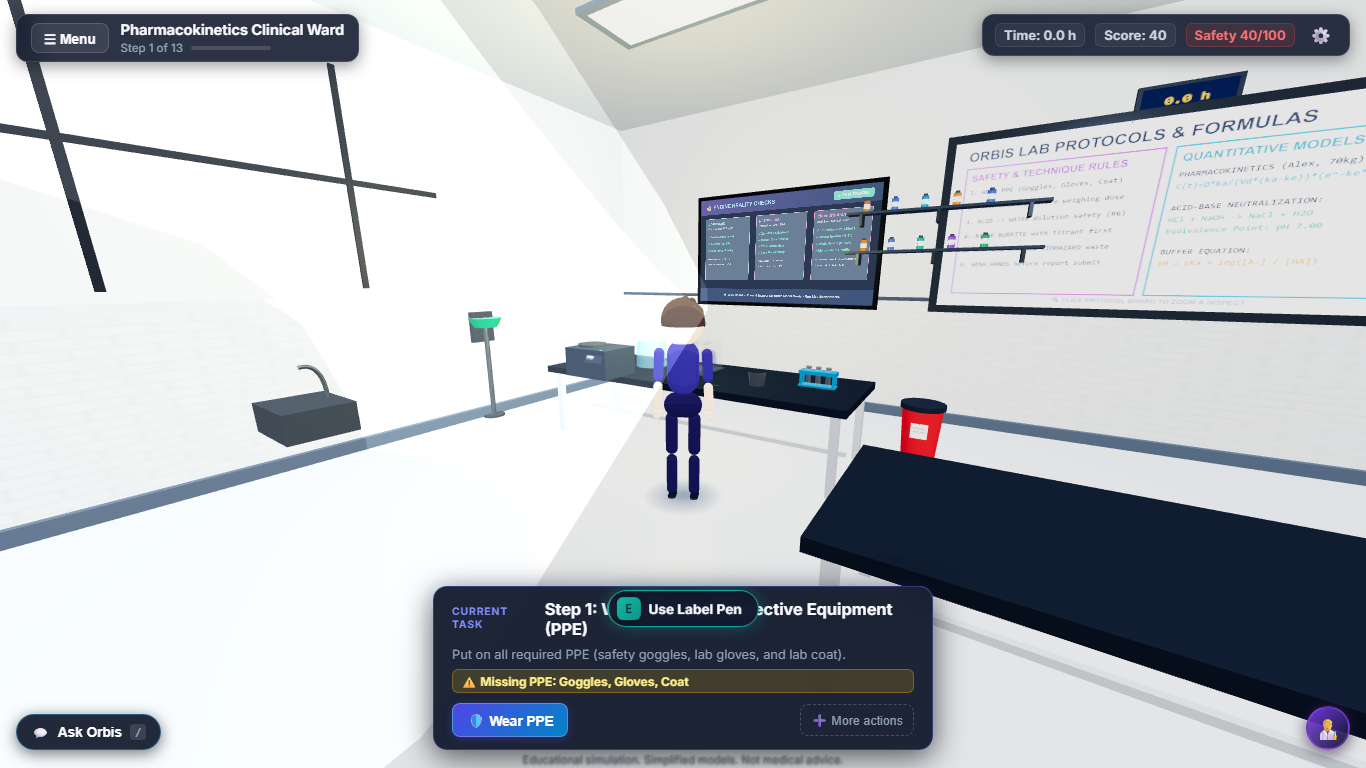
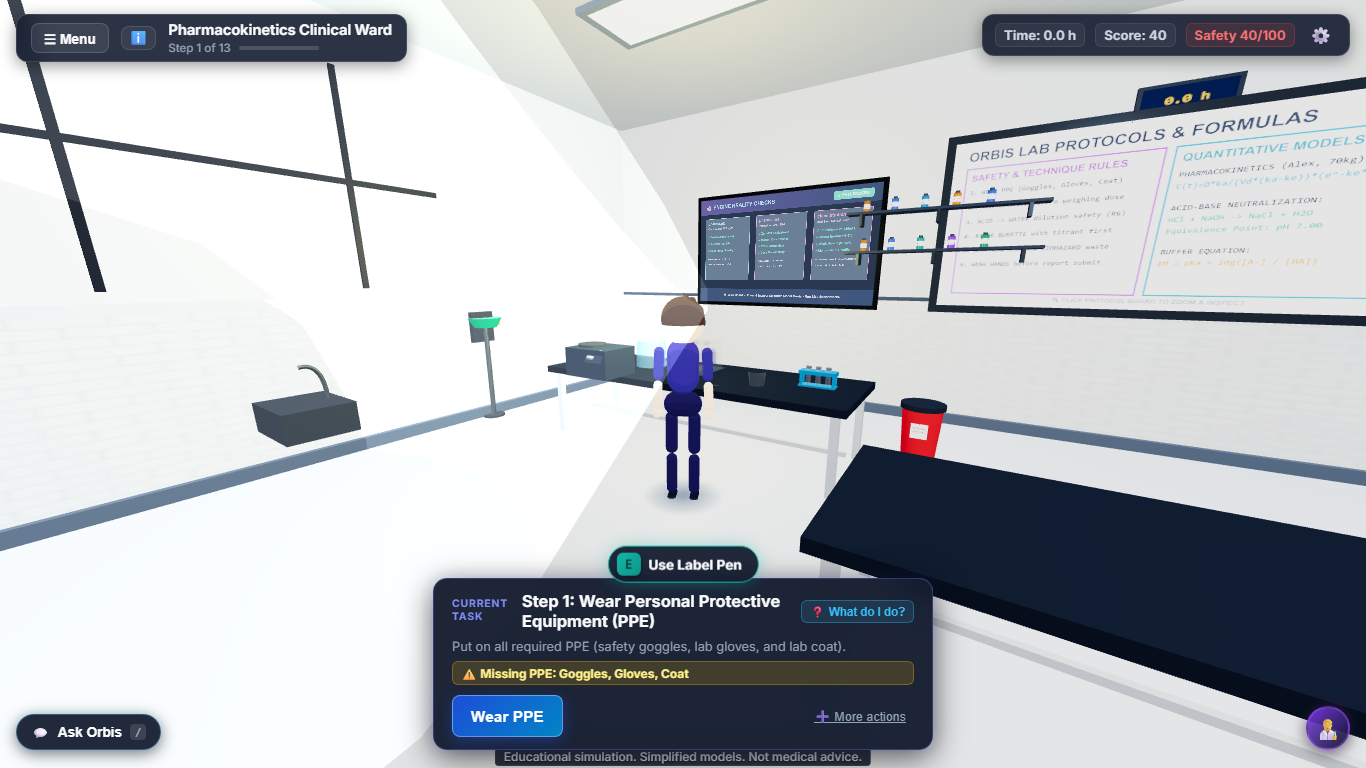
test(proof): capture real HUD screenshots, sidecars, and mobile/space camera polish (U7)

Changed region(s): [[0.3075, 0.6875, 0.6764, 1.0], [0.0922, 0.0, 0.3075, 0.0938]]

diff --git a/frontend/lab.css b/frontend/lab.css
@@ -5120,32 +5120,69 @@ body.has-offline-banner .hud-top-right {
 
 @media (max-width: 600px) {
   .hud-top-left {
-    top: 8px;
-    left: 8px;
-    padding: 4px 10px;
-    gap: 8px;
+    top: 6px;
+    left: 6px;
+    padding: 4px 8px;
+    gap: 5px;
+    max-width: calc(52vw - 8px);
+  }
+  .btn-hud-menu {
+    padding: 4px 7px;
+    font-size: 0.72rem;
+  }
+  .btn-hud-info {
+    padding: 3px 5px;
+    font-size: 0.75rem;
   }
   .hud-exp-name {
-    font-size: 0.82rem;
+    font-size: 0.75rem;
+    white-space: nowrap;
+    overflow: hidden;
+    text-overflow: ellipsis;
   }
   .hud-top-right {
-    top: 8px;
-    right: 8px;
-    padding: 4px 8px;
-    gap: 6px;
+    top: 6px;
+    right: 6px;
+    padding: 4px 6px;
+    gap: 4px;
+    max-width: calc(45vw - 8px);
+  }
+  .hud-metrics-row {
+    flex-wrap: wrap;
+    gap: 3px;
+    justify-content: flex-end;
   }
   .hud-metric-chip {
-    font-size: 0.72rem;
-    padding: 2px 5px;
+    font-size: 0.66rem;
+    padding: 1px 4px;
   }
   .hud-current-task-card {
-    bottom: 68px;
-    width: calc(100vw - 16px);
-    padding: 10px 12px;
+    bottom: 58px;
+    width: calc(100vw - 12px);
+    padding: 8px 10px;
+    gap: 4px;
     border-radius: 10px;
   }
+  .task-card-title {
+    font-size: 0.86rem;
+  }
+  .task-card-hint {
+    font-size: 0.72rem;
+    line-height: 1.25;
+  }
+  .task-btn-primary {
+    min-height: 36px;
+    padding: 6px 12px;
+    font-size: 0.84rem;
+  }
   .hud-proximity-prompt {
-    bottom: 195px;
+    bottom: 222px;
+  }
+  .touch-joystick-zone {
+    bottom: 215px;
+    left: 12px;
+    width: 84px;
+    height: 84px;
   }
   .hud-ask-orbis-trigger {
     bottom: 12px;

diff --git a/frontend/lab/character/controller.js b/frontend/lab/character/controller.js
@@ -122,6 +122,10 @@ export class CharacterController {
       // Spawn standing at the balance station framing avatar, balance & ward in clear walkway
       this.rig.root.position.set(-3.85, 0, -2.85);
       this.faceTarget(new THREE.Vector3(-4.5, 0.94, -4.2));
+    } else if (experimentId === 'launch_bench') {
+      // Spawn on the Launch Pad apron safely clear of the rocket and flame trench
+      this.rig.root.position.set(-3.5, 0.6, 5.0);
+      this.faceTarget(new THREE.Vector3(0.0, 5.0, 0.0));
     } else {
       // Spawn to the side of the Burette Stand in clear walkway
       this.rig.root.position.set(-0.25, 0, -0.90);

diff --git a/frontend/lab/main.js b/frontend/lab/main.js
@@ -1026,7 +1026,14 @@ async function startExperimentSession(experimentId, nickname = 'Researcher') {
     state.setExperiment(exp);
     sceneManager.loadExperiment(exp);
     characterController.spawnForExperiment(experimentId);
-    if (sceneManager.cameraRig) {
+    if (experimentId === 'launch_bench') {
+      if (sceneManager.cameraRig) {
+        sceneManager.cameraRig.setMode('STATION');
+      }
+      if (sceneManager.spaceScene) {
+        sceneManager.spaceScene.setViewMode('pad', true);
+      }
+    } else if (sceneManager.cameraRig) {
       sceneManager.cameraRig.recenter(true);
     }
 

diff --git a/frontend/lab/world/scene.js b/frontend/lab/world/scene.js
@@ -447,7 +447,14 @@ export class LabScene {
 
     this.syncApparatusState(experimentDef?.apparatus);
     this.updateNameTagVisibility();
-    if (this.cameraRig) {
+    if (experimentDef?.id === 'launch_bench') {
+      if (this.cameraRig) {
+        this.cameraRig.setMode(CameraMode.STATION);
+      }
+      if (this.spaceScene) {
+        this.spaceScene.setViewMode('pad', true);
+      }
+    } else if (this.cameraRig) {
       this.cameraRig.buildCollisionData();
       this.cameraRig.setMode(CameraMode.FOLLOW);
       this.cameraRig.recenter(true);

diff --git a/scripts/capture_real_hud_proof.py b/scripts/capture_real_hud_proof.py
@@ -346,6 +346,7 @@ def capture_after_screenshots(port: int = 8018):
         ("after_390x844.png", 390, 844, "pk_ward", "Oral PK Ward (390x844 iPhone Mobile)"),
         ("after_launch_bench_1920x1080.png", 1920, 1080, "launch_bench", "Launch & Orbit Bench (1920x1080 Space District)"),
         ("after_launch_bench_1366x768.png", 1366, 768, "launch_bench", "Launch & Orbit Bench (1366x768 Space District)"),
+        ("after_launch_bench_390x844.png", 390, 844, "launch_bench", "Launch & Orbit Bench (390x844 Space District Mobile)"),
     ]
 
     with sync_playwright() as p:
@@ -360,15 +361,6 @@ def capture_after_screenshots(port: int = 8018):
         for filename, w, h, exp_id, desc in targets:
             out_path = OUTPUT_DIR / filename
             json_path = OUTPUT_DIR / filename.replace(".png", ".json")
-            if out_path.exists() and json_path.exists():
-                try:
-                    with open(json_path, "r", encoding="utf-8") as jf:
-                        sc = json.load(jf)
-                    if sc.get("modal_count") == 0 and sc.get("visible_persistent_elements_count") == 5:
-                        print(f"  -> Existing {filename} verified clean (modal_count=0, persistent=5), keeping.")
-                        continue
-                except Exception:
-                    pass
 
             context = browser.new_context(viewport={"width": w, "height": h})
             # Q1: Set onboarding completed in localStorage BEFORE page load
@@ -435,6 +427,7 @@ def capture_movement_proof_strip(port: int = 8018):
     movement_sidecar = {
         "scenario": "pk_ward_movement_proof",
         "viewport": {"width": 1280, "height": 720},
+        "visible_persistent_elements_count": 5,
         "modal_count": 0,
         "yaws": {}
     }

diff --git a/scripts/check_proof_unique.py b/scripts/check_proof_unique.py
@@ -94,8 +94,8 @@ def validate_screenshot_semantic(file_path: Path) -> tuple[bool, str]:
                 g = ((bin_val >> 5) & 31) * 8
                 b = (bin_val & 31) * 8
 
-                # Celestial background void in space scene is expected (0,0,0)
-                if is_space and (r == 0 and g == 0 and b == 0):
+                # Celestial background void in space scene is expected (black or deep space navy)
+                if is_space and (r <= 8 and g <= 16 and b <= 32):
                     continue
 
                 if pct > 40.0:
